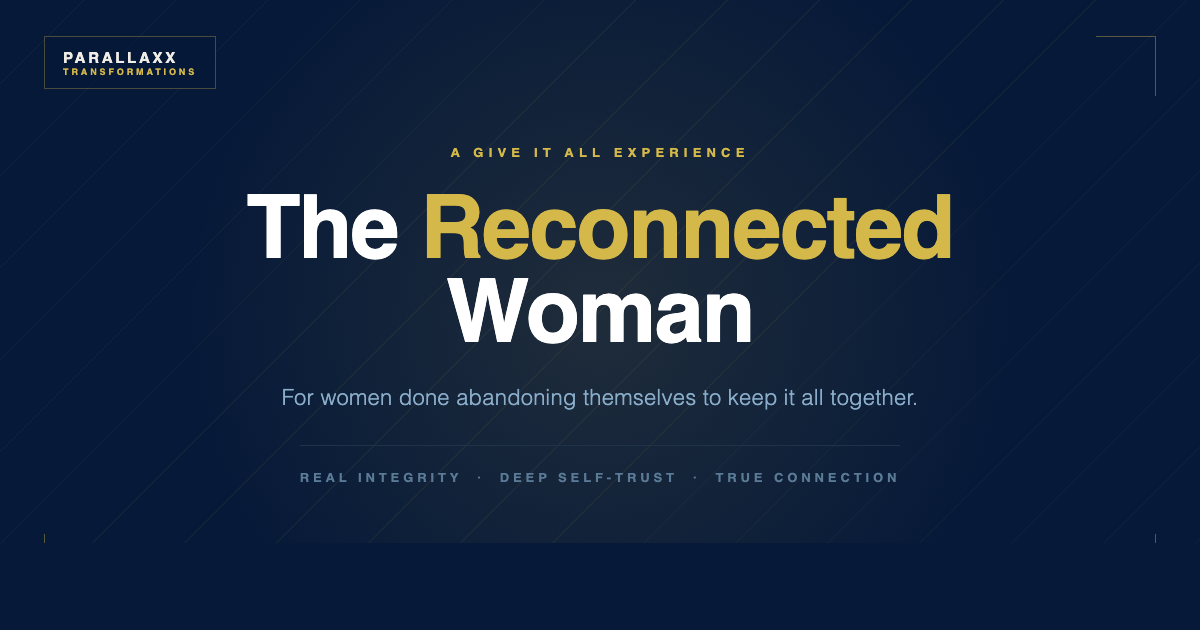
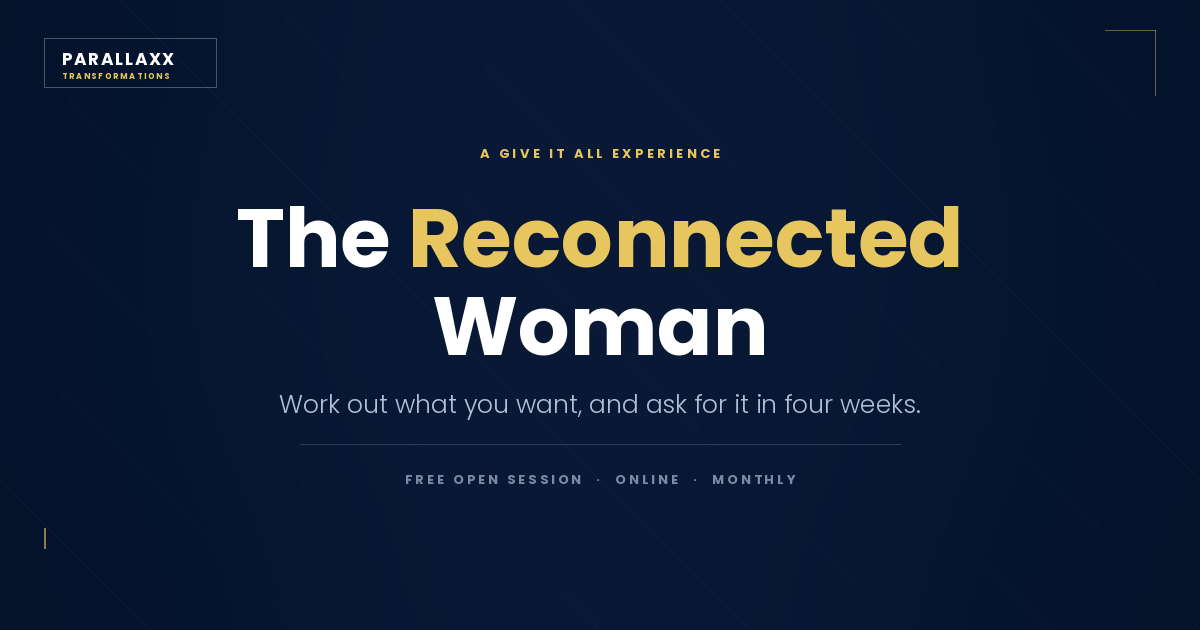
Reconnected Woman: share card and meta rewritten on the v10 copy
The share card still carried the Wix-era promise, "For women done abandoning
themselves to keep it all together", under REAL INTEGRITY / DEEP SELF-TRUST /
TRUE CONNECTION. Anyone posting the link was advertising a page that no longer
says any of that. Same layout, same type, current words.

The meta description said "a room of high-performing women" -- my phrase from
the port, not the page's; it appears nowhere on it. The description is now the
promise band and the og description is the hero sub, both verbatim.

The not-ready exit in the Trap section is centred. It was a left-aligned stub
under a full-width block and read as something that had come loose.

Claude-Session: https://claude.ai/code/session_01CvKZ3DdN5tJBLiZxtaNXuo

diff --git a/parallaxx-reconnected-woman.js b/parallaxx-reconnected-woman.js
@@ -365,9 +365,10 @@
 /* The not-ready exit sits at the objection, per your v2 note — but it is an
    exit, not part of the argument, so it is pushed clear and demoted. */
 .notready{
-  margin:clamp(38px,5vw,62px) 0 0; padding-top:20px;
+  margin:clamp(38px,5vw,62px) auto 0; padding-top:20px;
   border-top:1px solid var(--border);
   font-size:.88rem; color:var(--slate); max-width:62ch;
+  text-align:center;
 }
 .notready a{color:var(--coral-lift)}
 

diff --git a/reconnected-woman-v10-preview.html b/reconnected-woman-v10-preview.html
@@ -362,9 +362,10 @@
 /* The not-ready exit sits at the objection, per your v2 note — but it is an
    exit, not part of the argument, so it is pushed clear and demoted. */
 .notready{
-  margin:clamp(38px,5vw,62px) 0 0; padding-top:20px;
+  margin:clamp(38px,5vw,62px) auto 0; padding-top:20px;
   border-top:1px solid var(--border);
   font-size:.88rem; color:var(--slate); max-width:62ch;
+  text-align:center;
 }
 .notready a{color:var(--coral-lift)}
 

diff --git a/migration/build-site.py b/migration/build-site.py
@@ -132,11 +132,17 @@ ROUTES = [
         # "By application only" was the old offer. The page now leads with a
         # free open session on the first Tuesday of each month, and the
         # application is a short form behind it rather than the gate.
-        desc="Work out what you want, and ask for it in four weeks. A room of high-performing "
-             "women, held by Daniel Lawson. Come to the free open session first.",
+        # "A room of high-performing women" was mine, not the page's -- the
+        # phrase appears nowhere on it. Both lines below are the page's own
+        # words now: the promise from the promise band, the og line from the
+        # hero sub.
+        desc="Work out what you want, and ask for it in four weeks, without slowing down or "
+             "doing less. A weekly online circle held by Daniel Lawson. The first session "
+             "of every month is free.",
         og_title="RECONNECTED WOMAN | Parallaxx Transformations",
-        og_desc="Work out what you want, and ask for it in four weeks. A room of high-performing "
-                "women, held by Daniel Lawson. Come to the free open session first.",
+        og_desc="You've competed with men. Led men. Carried men. The masculine is provided, and "
+                "you don't have to, for a change. Work out what you want, and ask for it in "
+                "four weeks.",
         og_img="img/og-reconnected-woman.png",
     ),
     dict(
